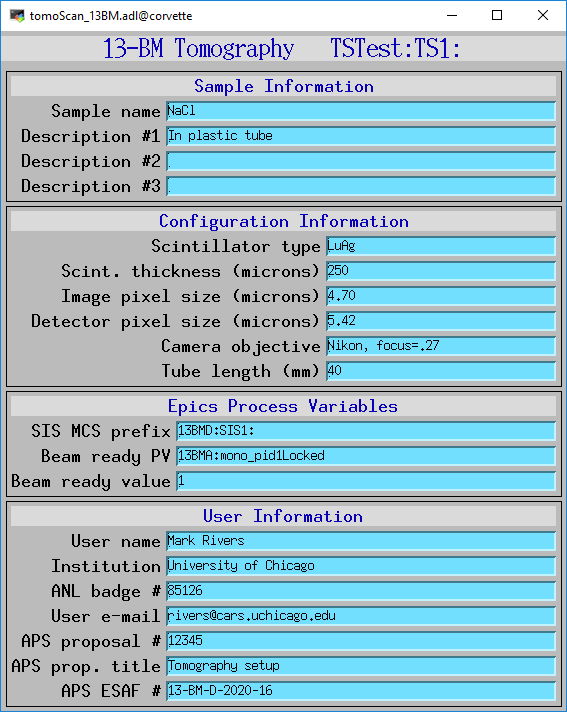
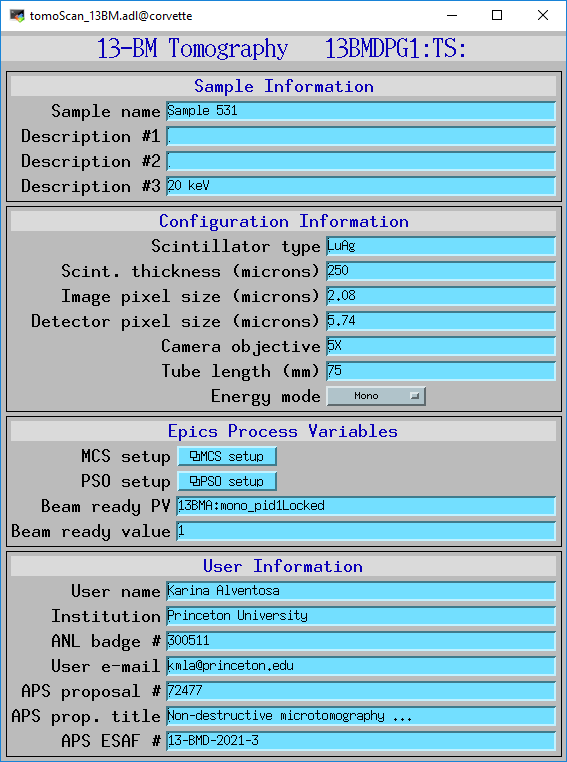
Update for new TomoScanPSO class

diff --git a/docs/source/about.rst b/docs/source/about.rst
@@ -10,8 +10,19 @@ About
 - tomoscan.py implements a base class (TomoScan) with the code that should be beamline-independent.  
 - Beamline-dependent code is implemented in derived classes that inherit from tomoscan.
 
-  - tomoscan_13bm.py implements the derived class TomoScan13BM. This is used at APS beamline 13-BM-D.
-  - tomoscan_2bm.py implements the derived class TomoScan2BM. This is used at APS beamline 2-BM-A.
+  - tomoscan_PSO.py implements the derived class TomoScaPSO. This is an intermediate base class that implements
+    logic for triggering with the Aerotech PSO pulse output for Aerotech rotation stages.  This is used at
+    2BM, 7BM, and 13BM.
+  - tomoscan_13bm_mcs.py implements the derived class TomoScan13BM_MCS. This is used for triggering the detector
+    using the pulses from an OMS motor controller with divide by N implemented in an SIS3820 MCS.
+    It is used at APS beamline 13-BM-D.
+  - tomoscan_13bm_pso.py implements the derived class TomoScan13BM_PSO. This is used for triggering the detector
+    using the PSO pulses from an Aerotech motor controller.
+    It is used at APS beamline 13-BM-D.
+  - tomoscan_2bm.py implements the derived class TomoScan2BM. This also uses the Aerotech PSO pulses for triggering.
+    This is used at APS beamline 2-BM-A.
+  - tomoscan_7bm.py implements the derived class TomoScan7BM. This also uses the Aerotech PSO pulses for triggering.
+    This is used at APS beamline 7-BM-B.
 
 
 Advantages compared to current APS tomography Python software
@@ -53,7 +64,7 @@ APS tomography Python software (e.g. `2bm-tomo`_).
     - The existing software requires that scans be run from within the same Python process that is running
       the tomography scan.
 
-- tomoscan is quite compact code. The base tomoscan class is ~810 lines, and the derived class for 13-BM
+- tomoscan is quite compact code. The base tomoscan class is ~900 lines, and the derived class for 13-BM
   is ~230 lines. Thus only a small amount of code needs to be copied and modified for a new beamline.
   This code collects a complete tomography dataset, including dark-fields, flat-fields, projections, 
   and saves a configuration file in JSON format at the end of the scan.

diff --git a/docs/source/usage.rst b/docs/source/usage.rst
@@ -5,26 +5,26 @@ Usage
 
 The following Python commands are all that is required to collect a tomography dataset::
 
->>> from tomoscan_13bm import TomoScan13BM
+>>> from tomoscan_13bm_pso import TomoScan13BM_PSO
 
-This line imports the code for class TomoScan13BM.  TomoScan13BM is a class that derives from TomoScan.  
+This line imports the code for class TomoScan13BM_PSO.  TomoScan13BM_PSO is a class that derives from TomoScan_PSO,
+which in turn derives from TomoScan.  
 It implements the logic used for scanning at 13-BM-D, but does not hard-code any EPICS PVs
 for that specific beamline.  
 
-Currently at 13-BM-D the rotation stage is a stepper motor driven by an OMS-58 motor controller.  
-The step pulses from the motor controller are sent to an SIS3820 multi-channel scaler (MCS). 
-The MCS is using in external trigger mode to divide the pulse frequency by N, 
-where N is the number of stepper-motor pulses per rotation step.
+The rotation stage is an air-bearing rotation stage driven by an Aerotech NDrive controller.
+The NDrive is programmed to output PSO trigger pulses at fixed angular increments of the rotation stage.  
 The speed of the rotation motor is set such that the exposure and readout will have just completed
 for image N when the trigger  for image N+1 arrives.
-The MCS is also used to collect the dark-fields and the flat-fields, using its internal trigger mode and a
-dwell time that is equal to the exposure time plus the readout time.
 
 ::
 
->>> ts = TomoScan13BM(["../db/tomoScan_settings.req","../db/tomoScan_13BM_settings.req"], {"$(P)":"TSTest:", "$(R)":"TS1:"})
+ts = TomoScan13BM_PSO(["../../db/tomoScan_settings.req",
+                       "../../db/tomoScan_PSO_settings.req",
+                       "../../db/tomoScan_13BM_settings.req"],
+                      {"$(P)":"13BMDPG1:", "$(R)":"TS:"})
 
-This line creates the TomoScan13BM object.  It takes two arguments that are passed to the 
+This line creates the TomoScan13BM_PSO object.  It takes two arguments that are passed to the 
 TomoScan constructor:
 
 - The first argument is a list of paths to the autosave request files for the databases.

diff --git a/docs/source/install.rst b/docs/source/install.rst
@@ -18,7 +18,7 @@ To build a minimal synApp::
 - Edit the assemble_synApps.sh script as follows:
     - Set FULL_CLONE=True
     - Set EPICS_BASE to point to the location of EPICS base.  This could be on APSshare (the default), or a local version you built.
-    - For tomoscan you only need BUSY and AUTOSAVE.  You can comment out all of the other modules (ALLENBRADLEY, ALIVE, etc.)
+    - For tomoscan you only need ASYN, BUSY and AUTOSAVE.  You can comment out all of the other modules (ALLENBRADLEY, ALIVE, etc.)
 
 - Run::
 
@@ -28,23 +28,16 @@ To build a minimal synApp::
 
     $ cd synApps/support/
 
-- Edit  busy-R1-7-2/configure/RELEASE to comment out this line::
+- Edit asyn/configure/RELEASE to comment out the lines starting with::
     
-    ASYN=$(SUPPORT)/asyn-4-32).
+    IPAC=$(SUPPORT)/
+    SNCSEQ=$(SUPPORT)/
 
 - Clone the tomoscan module into synApps/support::
     
     $ git clone https://github.com/tomography/tomoscan.git
 
-- Edit tomoscan/configure/RELEASE to comment out this line::
-    
-    ASYN=$(SUPPORT)/asyn-4-38
-
-- Edit tomoscan/tomoScanApp/src/Makefile to comment out this line::
-    
-    tomoScanApp_LIBS += asyn
-
-- Edit configure/RELEASE add this line to the end::
+- Edit support/configure/RELEASE add this line to the end::
     
     TOMOSCAN=$(SUPPORT)/tomoscan
 
@@ -66,7 +59,7 @@ Testing the installation
 
 - Start the epics ioc and associated medm screen with::
 
-    $ cd ~/epics/synApps/support/tomoscan/iocBoot/iocTomoScan_13BM
+    $ cd ~/epics/synApps/support/tomoscan/iocBoot/iocTomoScan_13BM_PSO
     $ start_IOC
     $ start_medm
 
@@ -76,7 +69,7 @@ Beamline customization
 tomoScan
 ~~~~~~~~
 
-Below are the customization steps for 2-BM, you can use these as teplates for your beamline.
+Below are the customization steps for 2-BM, you can use these as templates for your beamline.
 
 - Create in ~/epics/synApps/support/tomoscan/tomoScanApp/Db
     - tomoScan_2BM_settings.req

diff --git a/docs/source/tomoScanApp.rst b/docs/source/tomoScanApp.rst
@@ -7,10 +7,15 @@ tomoScanApp EPICS application
    :hidden:
 
    tomoScan.template
+   tomoScan_PSO.template
    tomoScan_13BM.template
+   tomoScan_13BM_MCS.template
+   tomoScan_13BM_PSO.template
    tomoScan_2BM.template
    tomoScan_settings.req
-   tomoScan_13BM_settings.req
+   tomoScan_PSO_settings.req
+   tomoScan_13BM_MCS_settings.req
+   tomoScan_13BM_PSO_settings.req
    tomoScan_2BM_settings.req
    tomoScan.substitutions
 
@@ -404,6 +409,17 @@ If these PVs are changed tomoscan must be restarted.
 .. image:: img/tomoScanEPICS_PVs.png
     :width: 75%
     :align: center
+
+tomoScan_pso.adl
+~~~~~~~~~~~~~~~~
+
+The following is the MEDM screen :download:`tomoScan_pso.adl <../../tomoScanApp/op/adl/tomoScan_pso.adl>`. 
+It contains the PVs that control the Aerotech PSO pulse control.
+
+.. image:: img/tomoScan_pso.png
+    :width: 75%
+    :align: center
+
 
 Beamline-specific files
 =======================

diff --git a/docs/source/api/tomoscan_13bm_pso.rst b/docs/source/api/tomoscan_13bm_pso.rst
@@ -1,7 +1,7 @@
-:mod:`tomoscan.tomoscan_13bm`
+:mod:`tomoscan.tomoscan_13bm_pso`
 =============================
 
-.. automodule:: tomoscan.tomoscan_13bm
+.. automodule:: tomoscan.tomoscan_13bm_pso
    :members:
    :show-inheritance:
    :undoc-members:
@@ -10,4 +10,4 @@
 
    .. autosummary::
    
-      tomoscan.tomoscan_13bm
+      tomoscan.tomoscan_13bm_pso

diff --git a/docs/source/api/tomoscan_13bm_mcs.rst b/docs/source/api/tomoscan_13bm_mcs.rst
@@ -1,0 +1,13 @@
+:mod:`tomoscan.tomoscan_13bm_mcs`
+=============================
+
+.. automodule:: tomoscan.tomoscan_13bm_mcs
+   :members:
+   :show-inheritance:
+   :undoc-members:
+
+   .. rubric:: **Functions:**
+
+   .. autosummary::
+   
+      tomoscan.tomoscan_13bm_mcs

diff --git a/docs/source/api/tomoscan_pso.rst b/docs/source/api/tomoscan_pso.rst
@@ -1,0 +1,13 @@
+:mod:`tomoscan.tomoscan_pso`
+========================
+
+.. automodule:: tomoscan.tomoscan_pso
+   :members:
+   :show-inheritance:
+   :undoc-members:
+
+   .. rubric:: **Functions:**
+
+   .. autosummary::
+   
+      tomoscan_pso

diff --git a/docs/source/api.rst b/docs/source/api.rst
@@ -6,7 +6,9 @@ API reference
 .. toctree::
 
    api/tomoscan
-   api/tomoscan_13bm
+   api/tomoscan_pso
+   api/tomoscan_13bm_mcs
+   api/tomoscan_13bm_pso
    api/tomoscan_2bm
    api/tomoscan_stream_2bm
    api/tomoscan_7bm

diff --git a/docs/source/tomoScan.substitutions.rst b/docs/source/tomoScan.substitutions.rst
@@ -1,3 +1,3 @@
 tomoScan.substitutions
 ======================
-.. literalinclude:: ../../iocBoot/iocTomoScan_13BM/tomoScan.substitutions
+.. literalinclude:: ../../iocBoot/iocTomoScan_13BM_PSO/tomoScan.substitutions

diff --git a/docs/source/tomoScan_13BM_MCS_settings.req.rst b/docs/source/tomoScan_13BM_MCS_settings.req.rst
@@ -1,0 +1,3 @@
+tomoScan_13BM_MCS_settings.req
+==============================
+.. literalinclude:: ../../tomoScanApp/Db/tomoScan_13BM_MCS_settings.req

diff --git a/docs/source/tomoScan_13BM_PSO_settings.req.rst b/docs/source/tomoScan_13BM_PSO_settings.req.rst
@@ -1,0 +1,3 @@
+tomoScan_13BM_PSO_settings.req
+==============================
+.. literalinclude:: ../../tomoScanApp/Db/tomoScan_13BM_PSO_settings.req

diff --git a/docs/source/tomoScan_13BM_MCS.template.rst b/docs/source/tomoScan_13BM_MCS.template.rst
@@ -1,0 +1,4 @@
+tomoScan_13BM_MCS.template
+======================
+.. literalinclude:: ../../tomoScanApp/Db/tomoScan_13BM_MCS.template
+
